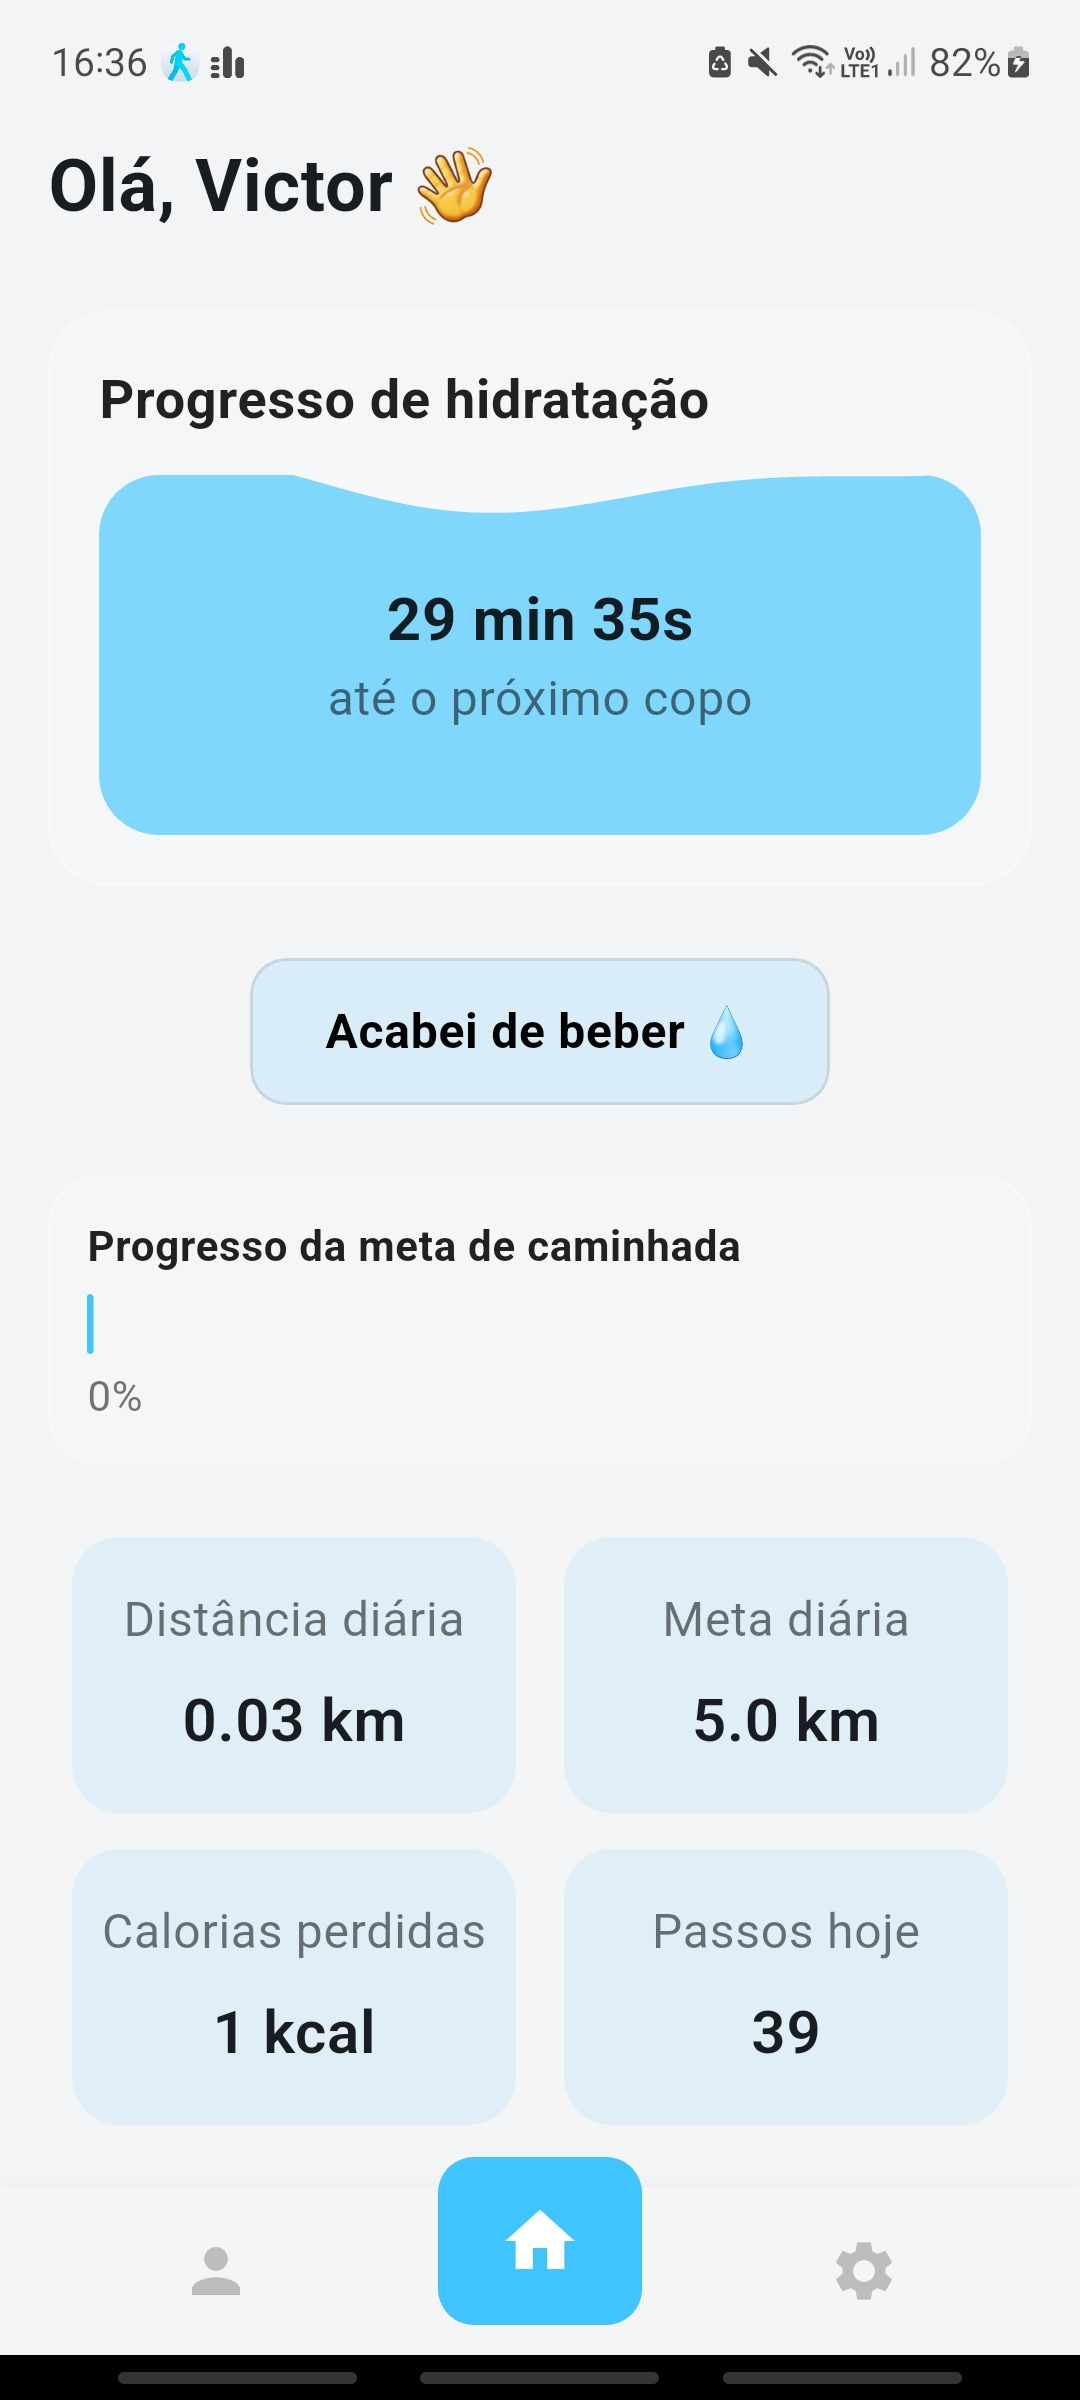
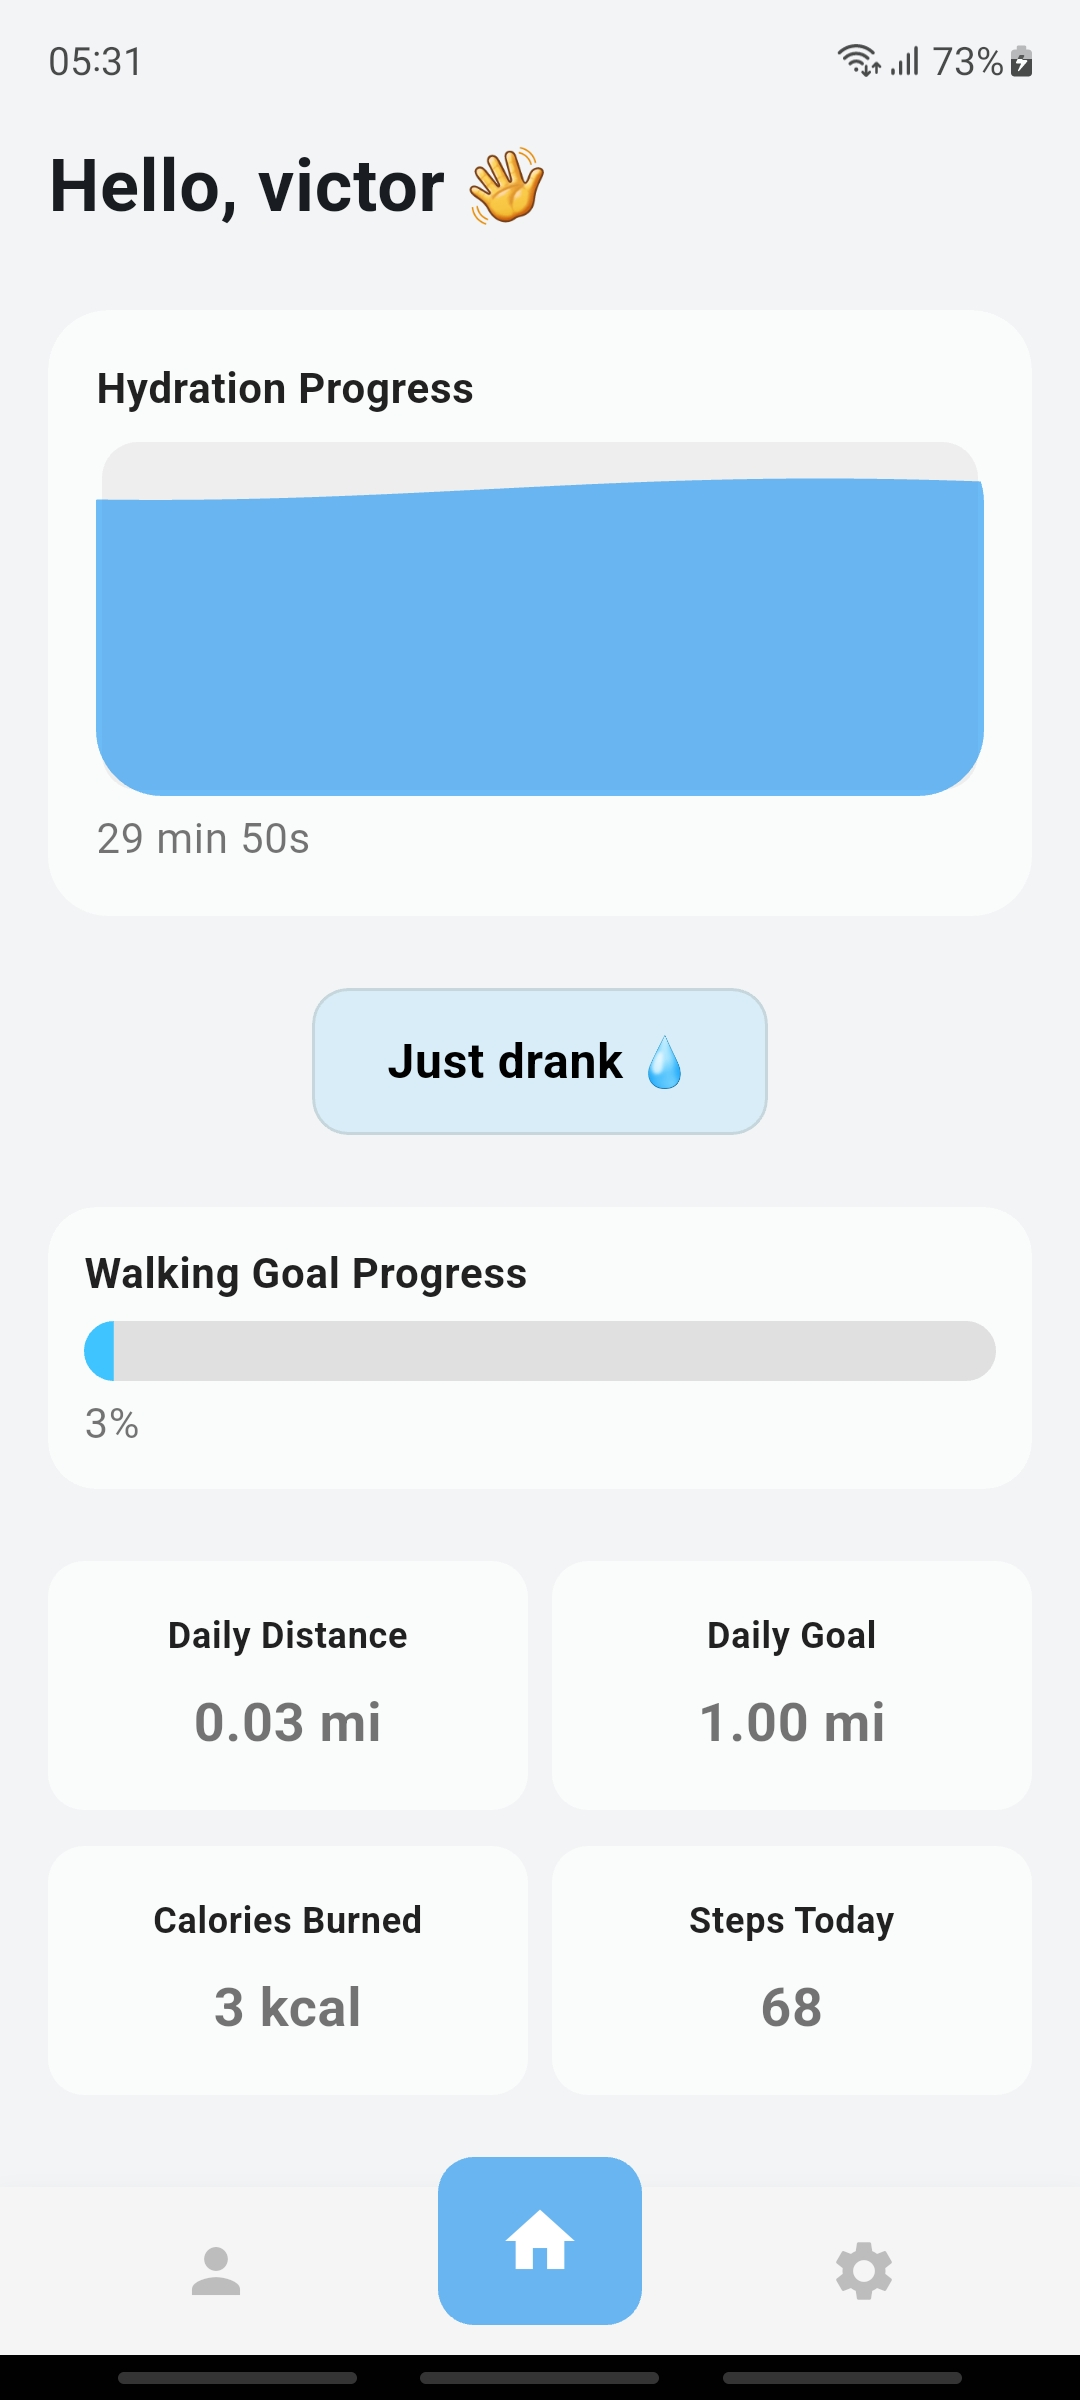
Improved interface and English localization

diff --git a/README.md b/README.md
@@ -12,7 +12,8 @@ HidraFit is an app designed to help users maintain healthy habits through:
 <p align="center">
   <img src="screenshots/home.jpg" alt="Home Screen" width="300"/>
   <img src="screenshots/profile.jpg" alt="Profile Screen" width="300"/>
-  <img src="screenshots/config.jpg" alt="Settings Screen" width="300"/>
+  <img src="screenshots/settings.jpg" alt="Settings Screen" width="300"/>
+  <img src="screenshots/login.jpg" alt="Login Screen" width="300"/>
 </p>
 
 ## Main Features
